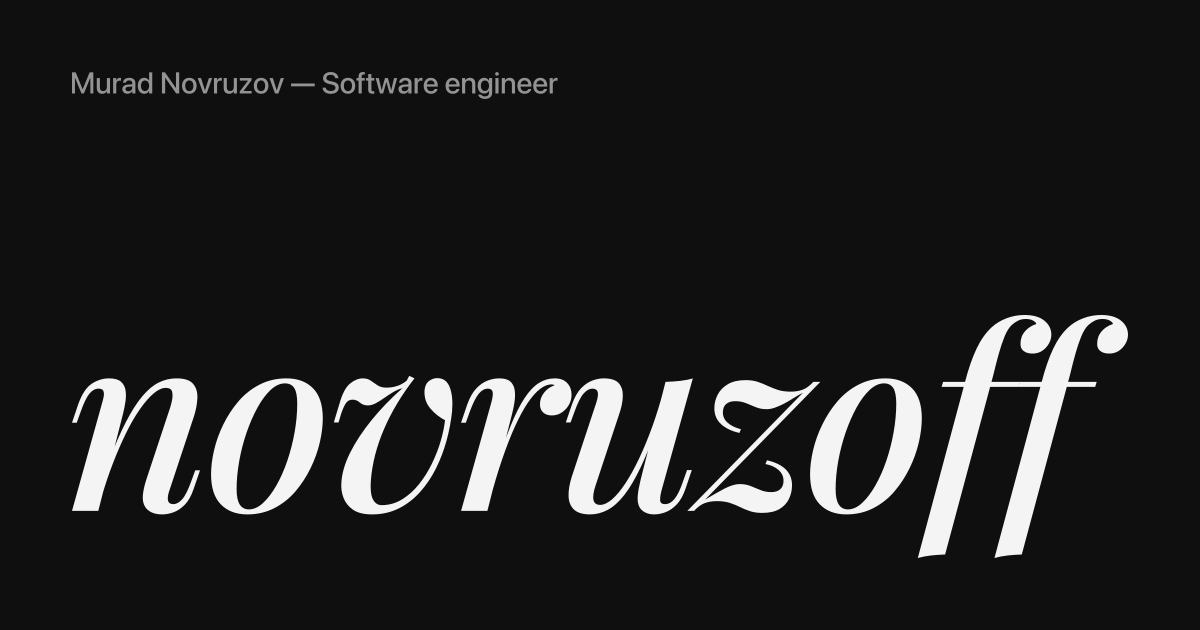
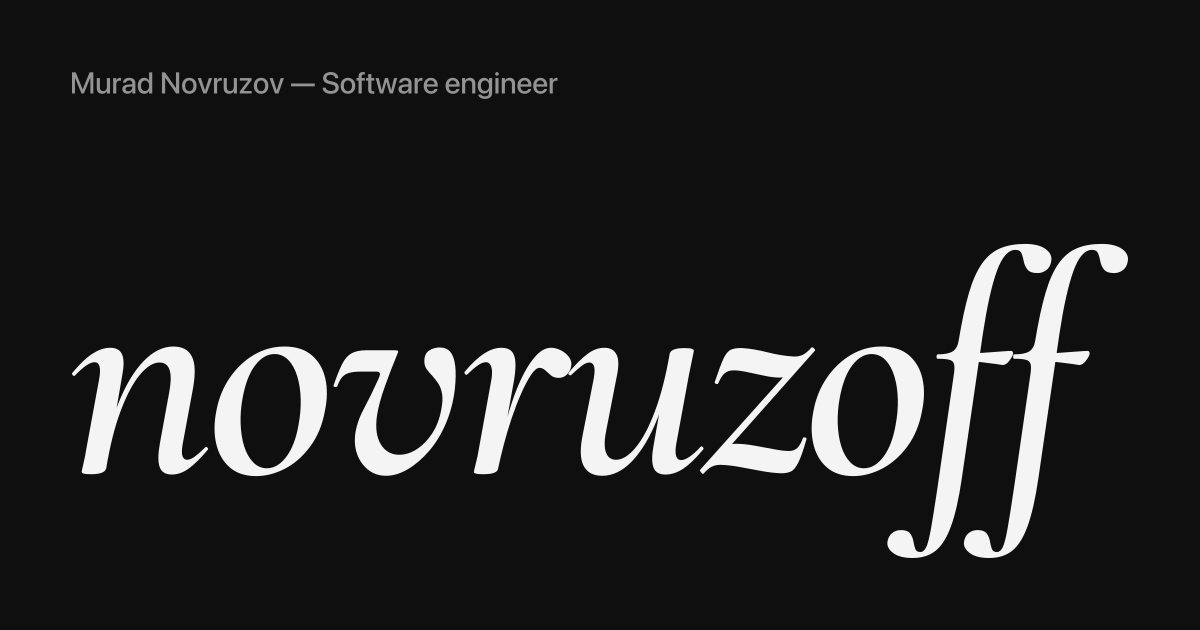
feat: swap hero handle to Cormorant, fix ff clipping, widen content

Changed region(s): [[0.0617, 0.3619, 0.9558, 0.8143], [0.74, 0.7841, 0.8633, 0.9048]]

diff --git a/src/styles/global.css b/src/styles/global.css
@@ -1,12 +1,14 @@
 @import "tailwindcss";
 
+/* The only web font: Cormorant Italic 600, subset to "N f n o r u v z"
+   (the "Novruzov → novruzoff" morph). Hero handle + footer bookend only. */
 @font-face {
-  font-family: "Playfair Display Subset";
+  font-family: "Cormorant Subset";
   font-style: italic;
-  font-weight: 500;
+  font-weight: 600;
   font-display: swap;
-  src: url("/fonts/playfair-display-italic-500-novruzov.woff2") format("woff2");
-  unicode-range: U+004E, U+006E, U+006F, U+0072, U+0075, U+0076, U+007A, U+0066;
+  src: url("/fonts/cormorant-italic-600-novruzov.woff2") format("woff2");
+  unicode-range: U+004E, U+0066, U+006E, U+006F, U+0072, U+0075, U+0076, U+007A;
 }
 
 /* Tokens are defined once. Colors live in :root below; `@theme inline`
@@ -60,7 +62,7 @@
   --accent-border: rgba(245, 158, 11, 0.25);
   --accent-glow: rgba(245, 158, 11, 0.22);
 
-  --font-display-serif: "Playfair Display Subset", Georgia, "Times New Roman", serif;
+  --font-display-serif: "Cormorant Subset", Georgia, "Times New Roman", serif;
 
   --ease-out-expo: cubic-bezier(0.16, 1, 0.3, 1);
 
@@ -110,9 +112,10 @@ a {
   font-feature-settings: "tnum";
 }
 
+/* Shared content column: <main>, the site nav, and the footer meta row. */
 .wrap {
   width: 100%;
-  max-width: 720px;
+  max-width: 828px;
   margin-inline: auto;
   padding-inline: clamp(20px, 4vw, 40px);
 }
@@ -167,7 +170,9 @@ a {
   min-height: 100vh;
   min-height: 100dvh;
   background: var(--bg-page);
-  overflow: hidden;
+  /* Clip sideways only: the handle's descenders (and its scroll-out
+     drift, see hero-exit) must be free to cross the bottom edge. */
+  overflow-x: clip;
   isolation: isolate;
 }
 
@@ -288,11 +293,14 @@ a {
 .hero-name {
   display: block;
   width: 100%;
-  padding: 0 clamp(12px, 2.5vw, 32px) clamp(24px, 3.5vw, 48px);
+  /* Bottom padding never drops below 0.22em: with line-height 0.95 that
+     leaves room for Cormorant's italic f descender (0.275em) under both
+     macOS (hhea) and Windows (win) vertical metrics. */
+  padding: 0 clamp(12px, 2.5vw, 32px) max(clamp(24px, 3.5vw, 48px), 0.22em);
   margin: 0;
   font-family: var(--font-display-serif);
   font-style: italic;
-  font-weight: 500;
+  font-weight: 600;
   font-size: clamp(64px, 18vw, 240px);
   line-height: 0.95;
   letter-spacing: -0.022em;
@@ -301,14 +309,14 @@ a {
   transform-origin: 0 0;
 }
 
+/* No overflow clipping on the letter spans: overflow other than visible
+   would clip the italic f's tail, terminal, and descender, and would move
+   an inline-block's baseline to its bottom edge (raising the letter). The
+   morph's reveal/collapse uses an animated clip-path instead (Hero.astro). */
 .hero-name .L {
   display: inline-block;
   vertical-align: baseline;
   white-space: pre;
-}
-.hero-name .L-v-trailing,
-.hero-name .L-f {
-  overflow: hidden;
 }
 
 /* Settled glyph states (no-JS and reduced-motion users land here) */
@@ -554,8 +562,9 @@ html.js-nav .site-nav.is-visible {
 
 .rows {
   /* Shared by project + experience rows so both lists hold one left edge.
-     Sized to fit "Jul 2025 — May 2026" on one line at 11px mono. */
-  --date-col: 132px;
+     Fits the longest date ("September 2025 — now", 20 chars = 136px in
+     SF Mono at 11px) on one line, with a little room. */
+  --date-col: 144px;
   display: flex;
   flex-direction: column;
 }
@@ -773,7 +782,7 @@ html.js-nav .site-nav.is-visible {
   padding: clamp(16px, 3vw, 32px) clamp(12px, 2.5vw, 32px) clamp(12px, 2vw, 24px);
   font-family: var(--font-display-serif);
   font-style: italic;
-  font-weight: 500;
+  font-weight: 600;
   font-size: clamp(64px, 18vw, 240px);
   line-height: 0.9;
   letter-spacing: -0.022em;

diff --git a/CLAUDE.md b/CLAUDE.md
@@ -78,15 +78,16 @@ System stack, plus exactly one web-font exception.
 ```
 --font-sans: -apple-system, BlinkMacSystemFont, 'Segoe UI', system-ui, sans-serif;
 --font-mono: ui-monospace, 'SF Mono', Menlo, monospace;
---font-display-serif: 'Playfair Display Subset', Georgia, 'Times New Roman', serif;
+--font-display-serif: 'Cormorant Subset', Georgia, 'Times New Roman', serif;
 ```
 
-**The single permitted web font:** Playfair Display Medium Italic (weight 500), subset to the glyphs `[space N f n o r u v z]` (enough for the `Novruzov → novruzoff` morph), self-hosted at `public/fonts/playfair-display-italic-500-novruzov.woff2` (~2 KB). Declared in `global.css` as `"Playfair Display Subset"` with a matching `unicode-range` and `font-display: swap`, preloaded in `Layout.astro`, exposed as `--font-display-serif`. Used ONLY for the hero handle and the footer `novruzoff` bookend. Any other glyph means re-subsetting the file. No other web fonts.
+**The single permitted web font:** Cormorant Italic, weight 600 (SemiBold Italic; OFL), subset to the glyphs `[N f n o r u v z]` — "novruzoff" plus the capital N the entrance shows as "Novruzov" before the morph. Self-hosted at `public/fonts/cormorant-italic-600-novruzov.woff2` (~2.2 KB), fetched from Google Fonts CSS2 (`family=Cormorant:ital,wght@1,600&text=Nnovruzf`). Declared in `global.css` as `"Cormorant Subset"` with a matching `unicode-range` and `font-display: swap`, preloaded in `Layout.astro`, exposed as `--font-display-serif`. Used ONLY for the hero handle and the footer `novruzoff` bookend. 600 rather than 500: Cormorant's hairlines are very fine, and at 500 they nearly vanish at the 64px mobile size on the dark background. Any other glyph means re-subsetting the file. No other web fonts. (Replaced Playfair Display Italic 500.)
 
 Sans owns prose, the hero tagline, and headings; the handle is the serif exception. Mono is reserved for metadata, dates, technical labels, and code. Mono gives design-engineer character through *contrast*, not volume.
 
 Hierarchy:
-- **Hero handle (`novruzoff`):** `--font-display-serif` (Playfair Medium Italic 500), `clamp(64px, 18vw, 240px)`, tracking −0.022em, line-height 0.95, full-width and bottom-anchored in the hero. Footer bookend uses the same face and scale at watermark opacity.
+- **Hero handle (`novruzoff`):** `--font-display-serif` (Cormorant Italic 600), `clamp(64px, 18vw, 240px)`, tracking −0.022em, line-height 0.95, bottom-anchored in the hero. Bottom padding is `max(clamp(24px, 3.5vw, 48px), 0.22em)` so the italic f's 0.275em descender always fits under macOS and Windows metrics. Cormorant sets smaller than Playfair did at the same size (x-height 0.40em vs 0.53em; "novruzoff" 3.4em wide vs 4.2em). Footer bookend uses the same face and scale at watermark opacity.
+- **Never put `overflow` other than `visible` on the handle's letter spans.** It clips the italic f's tail (0.12em left), terminal (0.14em right) and descender, and it moves an inline-block's baseline to its bottom edge, which lifts the letter off the baseline. The morph clips with `clip-path` instead (see Motion system).
 - **Hero tagline:** 13px, sans, top-left, max-width 280px; first line secondary, second line tertiary.
 - **Section headers:** 14-16px, sans, weight 500, sentence case ("Selected work").
 - **Nav (left, the name):** 14-15px, sans, weight 500, sentence case ("Murad Novruzov").
@@ -101,6 +102,7 @@ Motion is a feature, not an afterthought. All of it is vanilla — WAAPI, Inters
 What's implemented:
 
 1. **Hero entrance (load-linked, once per session).** `src/components/Hero.astro`. Phase 1 (0–2.5s): "Murad" (sans) and "Novruzov" (serif, scaled down) fade in centered and hold so the name can be read. Phase 2 (2.5–4.2s): "Murad" exits left while "Novruzov" morphs per letter into `novruzoff` — N→n via a scaleY squash with the glyph swapped at the midpoint, the trailing v collapses, the two f's grow in — and travels to its bottom-anchored rest position. Phase 3 (4.2s): tagline, link bar, and glow settle in; at 5.0s inline transforms are cleared so the layout survives resizes. Plays once per session (`sessionStorage`); replays and restored-scroll loads get a 600ms settle instead. The choreography is approved — don't retime it without asking.
+   - **Letter clipping.** The trailing v's collapse and the f's reveal clip horizontally only, via `clip-path` animated alongside width: `CLIP_TO_BOX` (`inset(-0.5em 0 -0.5em 0)`, the letter's box) ↔ `CLIP_TO_INK` (`inset(-0.5em -0.2em -0.5em -0.2em)`, room for the italic overhangs). Top/bottom stay open so descenders are never cut, and the f's end fully revealed. The `.hero` itself clips only on x (`overflow-x: clip`), so the handle's descenders and its scroll-out drift can cross the hero's bottom edge.
    - **Gate + failsafe.** Base CSS is the settled end state. Start states only apply under `html.js-hero` (set inline in `Layout.astro`) + `prefers-reduced-motion: no-preference`. The hero script claims the gate by adding `hero-live`; if it hasn't by `DOMContentLoaded` (script failed to load), or it throws, the gate is removed and the static page shows. `will-change` lives in the gated CSS and is cleared per element once its entrance finishes.
 
 2. **Cursor-reactive amber gradient.** A 910px radial layer (`circle closest-side`, `--accent-glow` → transparent) inside `.hero-glow`, which is absolute within the hero and clipped to it; a 180px fade to `--bg-page` at the hero's bottom edge keeps it from ending in a hard line. It follows the cursor with a per-frame lerp (damping 0.08) via `transform: translate3d(...)` only — no repaint. Layer opacity animates to 0.22 on entrance. The rAF loop idles once the glow settles and stays off while the tab is hidden or the hero is out of view (IntersectionObserver). Hidden under `(hover: none)` and reduced motion. No `filter: blur()` on the moving element; the gradient itself is the soft form.
@@ -128,9 +130,10 @@ What's implemented:
 - Density over whitespace, EXCEPT in the hero — the hero gets room to breathe (it's the entrance moment).
 - 0.5px borders only. Background layering creates hierarchy.
 - Hero composition: full viewport (`min-height: 100dvh`), no portrait. Tagline top-left. Bottom-anchored: a thin link bar (location in mono · GitHub / LinkedIn / Email · section links) above the massive full-width `novruzoff` handle. Cursor glow behind, clipped to the hero. Same composition on mobile; the location drops out of the link bar under 640px.
-- Project list: three-column grid (132px date | 1fr content | 88px link affordance). Multiple links stack in the affordance column.
-- Experience list: two-column grid (132px date | role + company + location).
-- The 132px date column (`--date-col` on `.rows`) is shared by both lists so they hold one left edge; it fits "Jul 2025 — May 2026" on one line at 11px mono.
+- Content column: `.wrap`, `max-width: 828px` including `clamp(20px, 4vw, 40px)` side padding (748px of content at desktop). Shared by `<main>`, the site nav, and the footer meta row, so they align. The hero is deliberately full-bleed and doesn't use it.
+- Project list: three-column grid (144px date | 1fr content | 88px link affordance). Multiple links stack in the affordance column.
+- Experience list: two-column grid (144px date | role + company + location).
+- The 144px date column (`--date-col` on `.rows`) is shared by both lists so they hold one left edge; it fits the longest date ("September 2025 — now", 20 chars = 136px in SF Mono at 11px) on one line. Re-check it if a longer date lands.
 - Generous side padding on mobile; tighter on desktop for density.
 
 ## Information architecture
@@ -205,8 +208,8 @@ Wrong voice:
 ## Performance budgets (creative-developer mode)
 
 - Total JS shipped: ≤ 60 KB gzipped. Currently ~7.6 KB: hero ~1.9 KB and Lenis + scroll reveals ~5.5 KB (module files), site nav ~0.2 KB (small enough that Astro inlines it). No GSAP or React is installed.
-- Web font: the single Playfair subset, ~2 KB, preloaded.
-- Social/meta: `public/og.png` (1200×630, ~24 KB) is the OG + Twitter `summary_large_image` card; `public/apple-touch-icon.png` (180×180) is the amber italic "n". Both are rasterized from vector outlines of the Playfair subset (plus the system SF for the small line on the card), so they match the site's type exactly. Regenerate them if the handle or tagline changes. `robots.txt` points at `/sitemap-index.xml` (generated by `@astrojs/sitemap`).
+- Web font: the single Cormorant subset, ~2.2 KB, preloaded.
+- Social/meta: `public/og.png` (1200×630, ~24 KB) is the OG + Twitter `summary_large_image` card; `public/apple-touch-icon.png` (180×180) is the amber italic "n". Both are rasterized from vector outlines of the Cormorant subset (plus the system SF for the small line on the card), so they match the site's type exactly. Regenerate them if the handle or tagline changes. `robots.txt` points at `/sitemap-index.xml` (generated by `@astrojs/sitemap`).
 - Lighthouse performance: ≥ 92 mobile, ≥ 96 desktop.
 - LCP: ≤ 2.0s on 4G.
 - Accessibility, Best Practices, SEO: 100 each, non-negotiable.
